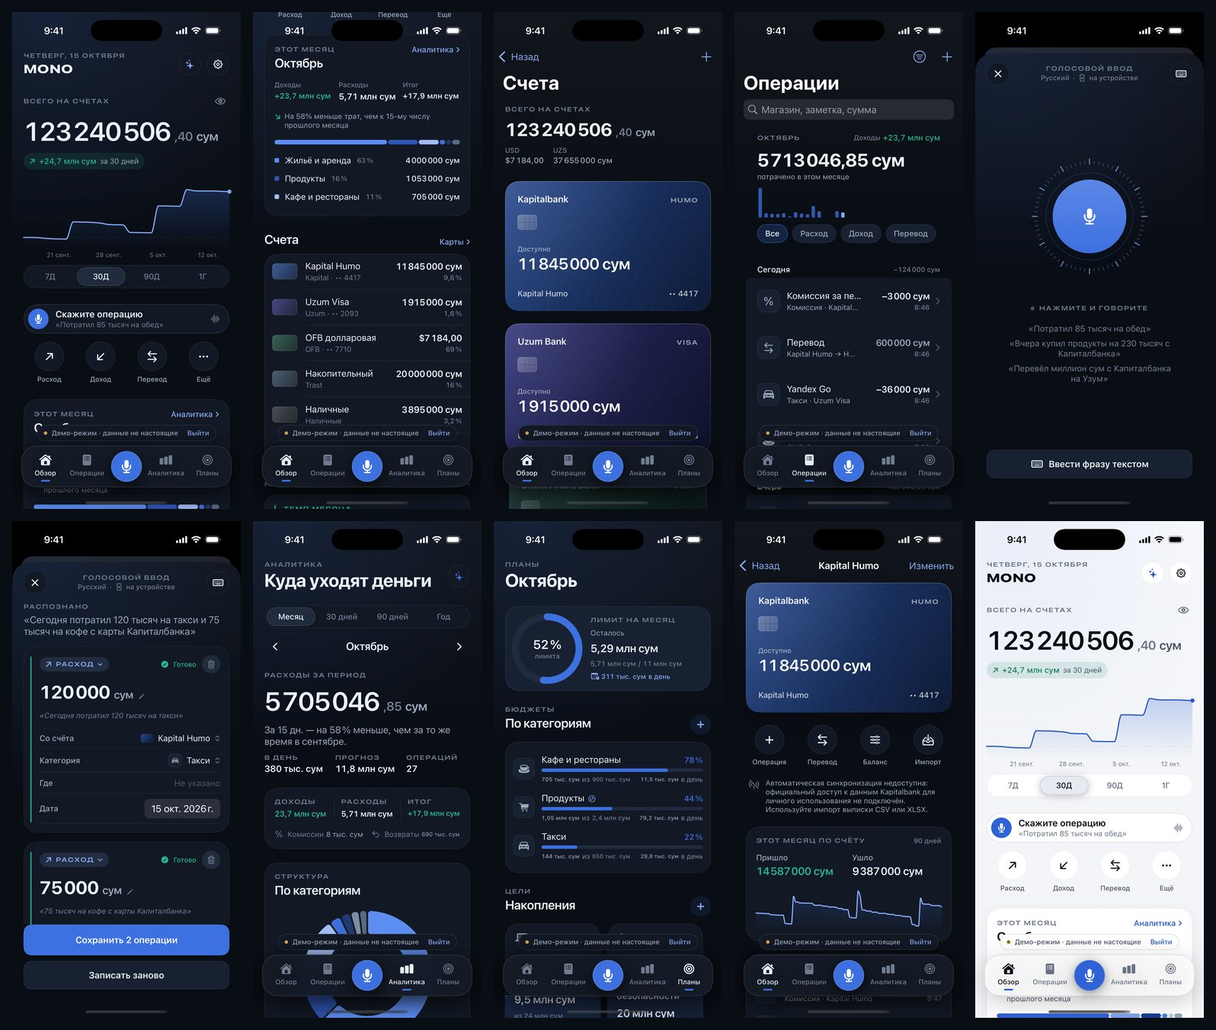
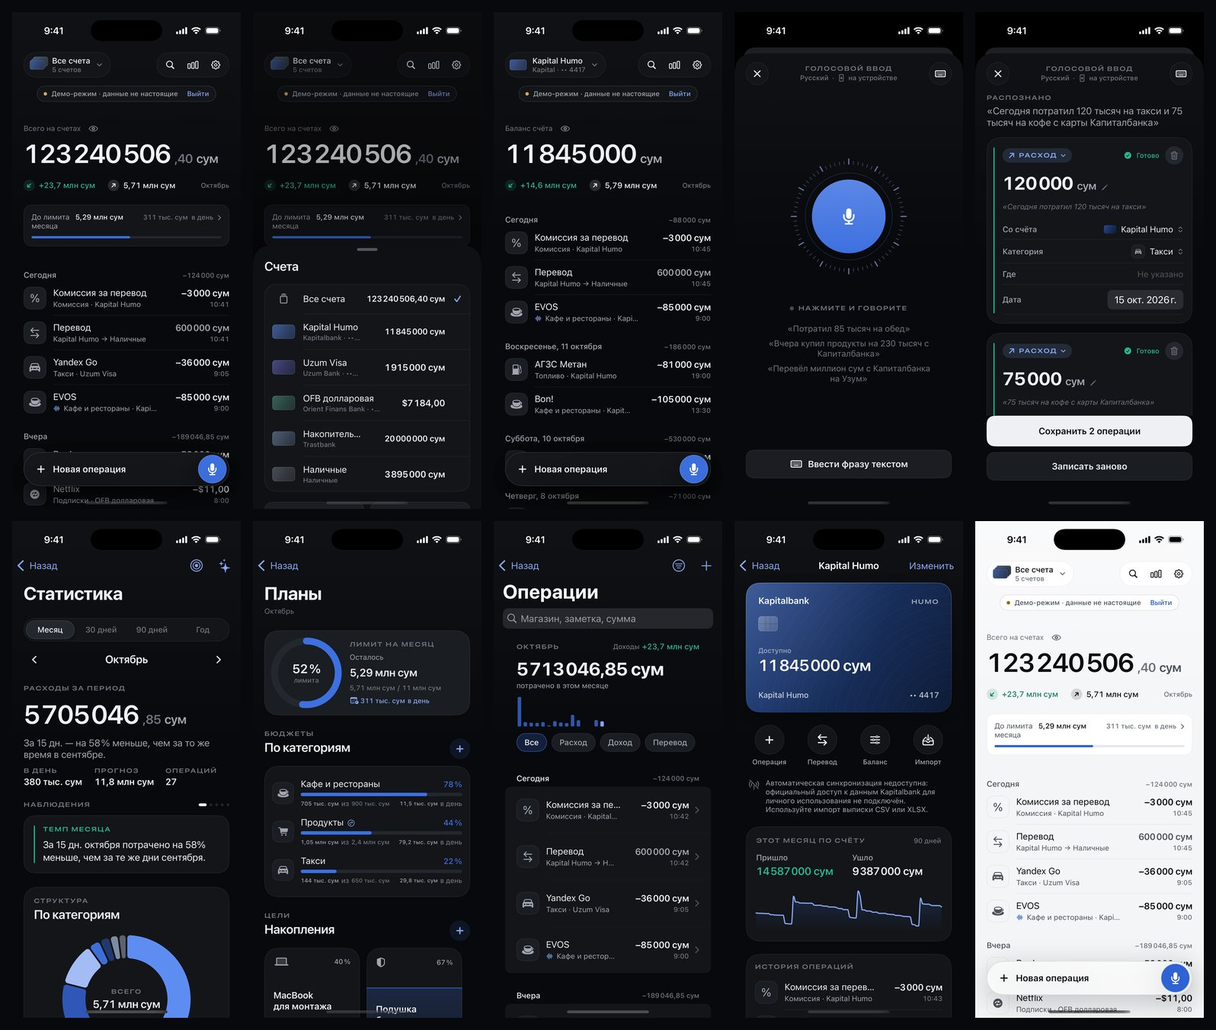
README: простая навигация, галерея после упрощения, честный статус CI
Claude-Session: https://claude.ai/code/session_01PEzQxLAEUFKwUyYWCD6Dae

diff --git a/README.md b/README.md
@@ -9,7 +9,7 @@
 ## Коротко
 
 - **Готово:** приложение целиком и ядро учёта — 106 файлов Swift, около 22 000 строк кода. Ядро покрыто 122 автотестами.
-- **Редизайн «Graphite»:** один акцент вместо пяти, графитовые поверхности, тёмные «металлические» карты, новая главная, голосовой прибор, единый стиль всех экранов (тёмная и светлая темы). Подробности — в разделе «Дизайн-система».
+- **Редизайн «Graphite»:** один главный экран без вкладок, нейтральный почти чёрный графит, белая основная кнопка, синий — только для голоса и выбора, тёмные «металлические» карты, единый стиль всех экранов (тёмная и светлая темы). Подробности — в разделе «Дизайн-система».
 - **Проверено:** сборка настоящим Xcode в облаке, 122 теста ядра на macOS, снимки всех основных экранов в симуляторе iPhone.
 - **Не проверено:** запуск на реальном iPhone. Микрофон, Face ID, уведомления и выбор файлов проверяются только на устройстве.
 - **Установка без Mac:** файл `MonoFinance.ipa` из Releases и Sideloadly на Windows — инструкция ниже.
@@ -18,13 +18,14 @@
 
 **Первый запуск.** Онбординг в три шага: основная валюта → ваши счета с настоящими остатками → защита Face ID или код-паролем. Кнопка «Посмотреть на демо-данных» открывает отдельную демо-базу, которая не смешивается с вашими данными. Выйти из демо — кнопка «Выйти» на плашке.
 
-**Нижняя панель:**
+**Один главный экран, без вкладок.** Он отвечает на два вопроса: сколько у меня денег и что я потратил.
 
-- **Обзор** — общий баланс и его график прямо под ним: проведите пальцем по графику, и сумма покажет баланс на выбранный день. Строка «Скажите операцию» открывает голосовой ввод; кнопки «Расход», «Доход», «Перевод» и «Ещё» (импорт, возврат, комиссия, корректировка). Модуль месяца: доходы, расходы, итог, темп к прошлому месяцу и три главные категории. Счета списком — остаток и доля каждой карты видны сразу. Регулярные платежи к подтверждению, наблюдения, последние операции. Вверху справа — ассистент и настройки.
-- **Операции** — расходы месяца крупно и ритм трат по дням; список с поиском и фильтрами, свайпы «Изменить», «Удалить», «Повторить». В карточке операции — история изменений и фото чека. Удалённую операцию можно вернуть кнопкой «Вернуть».
-- **Микрофон в центре** — голосовой ввод. Скажите, например: «Вчера купил продукты в Корзинке на 245 тысяч и потратил 40 тысяч на такси». Появятся два черновика: проверьте их, при необходимости поправьте и нажмите «Сохранить». Без подтверждения ничего не сохраняется. Фразу можно и напечатать.
-- **Аналитика** — куда уходят деньги: категории, динамика, сравнение с прошлым периодом, магазины, обязательные траты, найденные подписки, прогноз накоплений.
-- **Планы** — лимит на месяц, бюджеты категорий, цели, крупные запланированные траты, регулярные платежи.
+- **Сверху** — выбор счёта («Все счета» или одна карта) и три иконки: поиск по всей истории, статистика, настройки.
+- **Баланс** крупно и одна строка месяца: доходы и расходы. Если задан лимит на месяц — тонкая строка «Осталось … · … в день», нажатие открывает планы.
+- **Лента операций** по дням с итогом трат дня. Долгое нажатие на операцию — «Изменить», «Повторить», «Удалить» (удаление можно вернуть).
+- **Внизу одна строка** «Новая операция» с микрофоном справа. Микрофон — голосовой ввод: скажите, например, «Сегодня потратил 120 тысяч на такси и 50 тысяч на кофе» — появятся два черновика, без подтверждения ничего не сохраняется. Долгое нажатие на строку — доход, перевод, импорт выписки.
+- **Статистика** — сумма трат за период, наблюдение, структура по категориям и динамика. Всё остальное (изменения к прошлому периоду, обязательные траты, магазины, счета, источники дохода, необычные траты, подписки, прогноз) — под кнопкой «Подробный разбор».
+- **Планы** (бюджеты, цели, запланированные и регулярные платежи) — из статистики и из строки лимита на главной.
 
 **Быстрые действия.** Долгое нажатие на иконку MONO: «Голосом», «Новый расход», «Перевод», «Спросить MONO». Эти же команды доступны в Siri и «Быстрых командах».
 
@@ -74,24 +75,24 @@ Swift 6, без интерфейса: 44 файла, около 8 700 строк
 
 ## Дизайн-система «Graphite»
 
-Задача редизайна — серьёзный, дорогой и спокойный финансовый продукт без радуги, неона и декоративных свечений.
+Задача редизайна — серьёзный, дорогой и спокойный трекер расходов без радуги, неона и декоративных свечений. Главный принцип — на экране только то, что нужно каждый день; всё остальное на втором уровне.
 
 **Цвет — только со смыслом.**
 
 | Токен | Тёмная тема | Роль |
 |---|---|---|
-| `background` | `#090D14` | Фон. Статичный, со слабым холодным светом сверху |
-| `surface1` / `surface2` / `surface3` | `#121925` / `#182131` / `#202B3D` | Карточки и списки / поля / чипы и дорожки |
-| `textPrimary` / `textSecondary` / `textTertiary` | `#EAF0F7` / `#9BA7B9` / `#717D91` | Текст трёх уровней |
-| `accent` | `#3D70E0` | Единственный акцент: основная кнопка, выбор, голос, линия графика |
+| `background` | `#08090C` | Фон: нейтральный, почти чёрный, статичный |
+| `surface1` / `surface2` / `surface3` | `#131519` / `#1A1D22` / `#23272E` | Карточки и капсулы / поля / чипы и дорожки |
+| `textPrimary` / `textSecondary` / `textTertiary` | `#EEF0F3` / `#A0A5AE` / `#6F747E` | Текст трёх уровней; `textPrimary` — заливка основной кнопки |
+| `accent` | `#3D70E0` | Единственный цветной акцент: микрофон, выбор, линия графика |
 | `accentText` | `#86A8F4` | Акцент для ссылок и значков на тёмном |
 | `positive` / `negative` / `warning` | `#27B58C` / `#E0676E` / `#D9A55A` | Доход и рост / превышение и удаление / предупреждения |
 
-Акцент взят чуть темнее предложенного `#477BEB`: белый текст на `#477BEB` даёт контраст 3,96, на `#3D70E0` — 4,57 (норма WCAG AA для обычного текста). Все пары «текст — фон» проверяет `Tools/generate_tokens.py`.
+Основная кнопка — светлая на тёмном (в светлой теме — тёмная): это строже и дороже, чем цветная. Акцент взят чуть темнее предложенного `#477BEB`: белый значок на `#477BEB` даёт контраст 3,96, на `#3D70E0` — 4,57 (норма WCAG AA). Все пары «текст — фон» проверяет `Tools/generate_tokens.py`.
 
 **Правила:**
 
-- Один акцент на экран: основная кнопка и выбранное состояние. Зелёный — только доходы и достигнутые цели, красный — только превышение и удаление.
+- Синий — только голос и выбранное состояние. Зелёный — только доходы и достигнутые цели, красный — только превышение и удаление.
 - Значки категорий в списках монохромные — различие даёт форма значка. Приглушённый «тон» категории виден только там, где категорию выбирают (редактор, список категорий).
 - Графики окрашиваются ступенями акцента по рангу: крупнейшая категория — ярче, «Остальное» — нейтрально-серым.
 - Карты счетов — тёмные материалы («Кобальт», «Слива», «Сталь», «Хвоя», «Графит», «Индиго») с тонкой гравировкой и чипом, без кислотных градиентов. Названия скинов в базе не менялись — у существующих счетов просто новый вид.
@@ -101,7 +102,7 @@ Swift 6, без интерфейса: 44 файла, около 8 700 строк
 
 **Движение.** Пружины четырёх уровней (`quick`, `standard`, `emphasized`, `gentle`), появление модулей снизу при открытии экрана, числовые переходы сумм, скраббинг графиков с тактильным откликом. При «Уменьшении движения» анимации заменяются коротким затуханием. Фон больше ничего не анимирует.
 
-**Компоненты:** плавающий док с акцентной точкой выбранного раздела и сплошной кнопкой микрофона; голосовой прибор (акцентное ядро и радиальная шкала, по которой бежит история громкости); виртуальные карты и их миниатюры; строка «Скажите операцию»; модульные заголовки со ссылками; чипы, сегментные переключатели, цифровая клавиатура, пустые состояния.
+**Компоненты:** строка ввода внизу главной («Новая операция» + микрофон); выбор счёта капсулой с миниатюрой карты; голосовой прибор (акцентное ядро и радиальная шкала, по которой бежит история громкости); виртуальные карты и их миниатюры; чипы, сегментные переключатели, цифровая клавиатура, пустые состояния.
 
 ## Что проверено, а что нет
 
@@ -111,11 +112,12 @@ Swift 6, без интерфейса: 44 файла, около 8 700 строк
 - Приложение после редизайна собирается Xcode под iPhone и под симулятор без ошибок.
 - Все основные экраны после редизайна сняты в симуляторе iPhone 16 Pro на демо-данных — в тёмной теме и выборочно в светлой; вёрстка поправлена по снимкам.
 - Финансовая логика: суммы хранятся в целых минимальных единицах (`Int64`), переводы между своими счетами не попадают в расходы, комиссия — отдельной операцией, возвраты уменьшают расходы. Итог дня в списке операций теперь тоже учитывает возвраты.
-- Сквозной UI-тест `TourUITests` проходит в симуляторе: обзор, голосовой ввод (фраза вводится текстом, в симуляторе нет микрофона), операции, планы, ручной ввод расхода, настройки. Операции сохраняются, балансы пересчитываются.
+- Сквозной UI-тест `TourUITests` в симуляторе (на сборке `12d46d3` прошли все проверки, кроме открытия карточки операции — тест нажимал не ту строку; исправлено в `b5d3e94`, повторный прогон не выполнен — см. «Не проверено») проверяет: голосовой ввод (фраза вводится текстом, в симуляторе нет микрофона) — операция сохраняется и появляется на главной и открывается; переходы в поиск, статистику с подробным разбором, планы; выбор счёта; ручной расход с клавиатуры; настройки.
 
 **Не проверено:**
 
 - Запуск на реальном iPhone, в том числе внешний вид редизайна на маленьких экранах (iPhone SE) и с крупным шрифтом Dynamic Type — снимки сделаны только на iPhone 16 Pro.
+- Последние правки (`b5d3e94`: подпись строки лимита, короткие названия банков в листе счетов, исправленный шаг UI-теста) не прошли через CI: GitHub Actions перестал выделять macOS-раннер (задачи падают за несколько секунд, похоже на исчерпанный лимит минут). Нужен повторный запуск, когда лимит восстановится.
 - Анимация голосового прибора во время записи: в симуляторе нет микрофона, на снимке — состояние ожидания.
 - Микрофон и распознавание речи, Face ID, уведомления, выбор файлов и фото: в симуляторе они не тестируются.
 - Выписки конкретных банков: реальных образцов не было, поэтому шаблоны Kapitalbank, Uzum, Orient Finans и Trastbank не заявлены. Колонки определяются автоматически, вы подтверждаете сопоставление, и оно запоминается.
